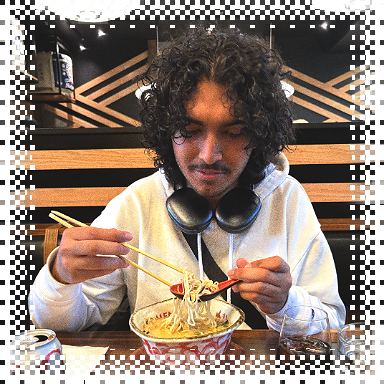
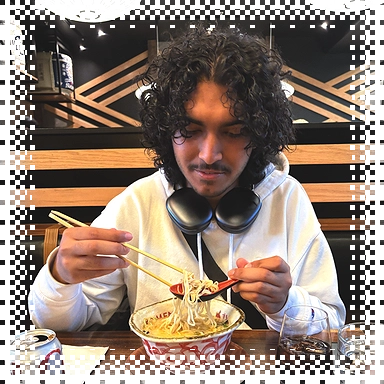
Update profile portrait treatment

diff --git a/AGENTS.md b/AGENTS.md
@@ -150,6 +150,11 @@ Use meaningful commit messages that describe the why.
   geometry, including `apple-icon.png`, `icon-light-32x32.png`,
   `icon-dark-32x32.png`, and `favicon.ico`.
 - **Repeated UI:** if something is used more than once, make it a component.
+- **Profile picture:** Generate hero profile assets from source photos with
+  `npm run render:profile-picture -- /absolute/path/to/source-image` inside
+  `islamtayeb/`. This writes both `public/me.webp` and
+  `public/hero-portrait.png` with the established 384px crop, sharpened
+  pixel/color treatment, and transparent square mask.
 
 ## Deployment
 
